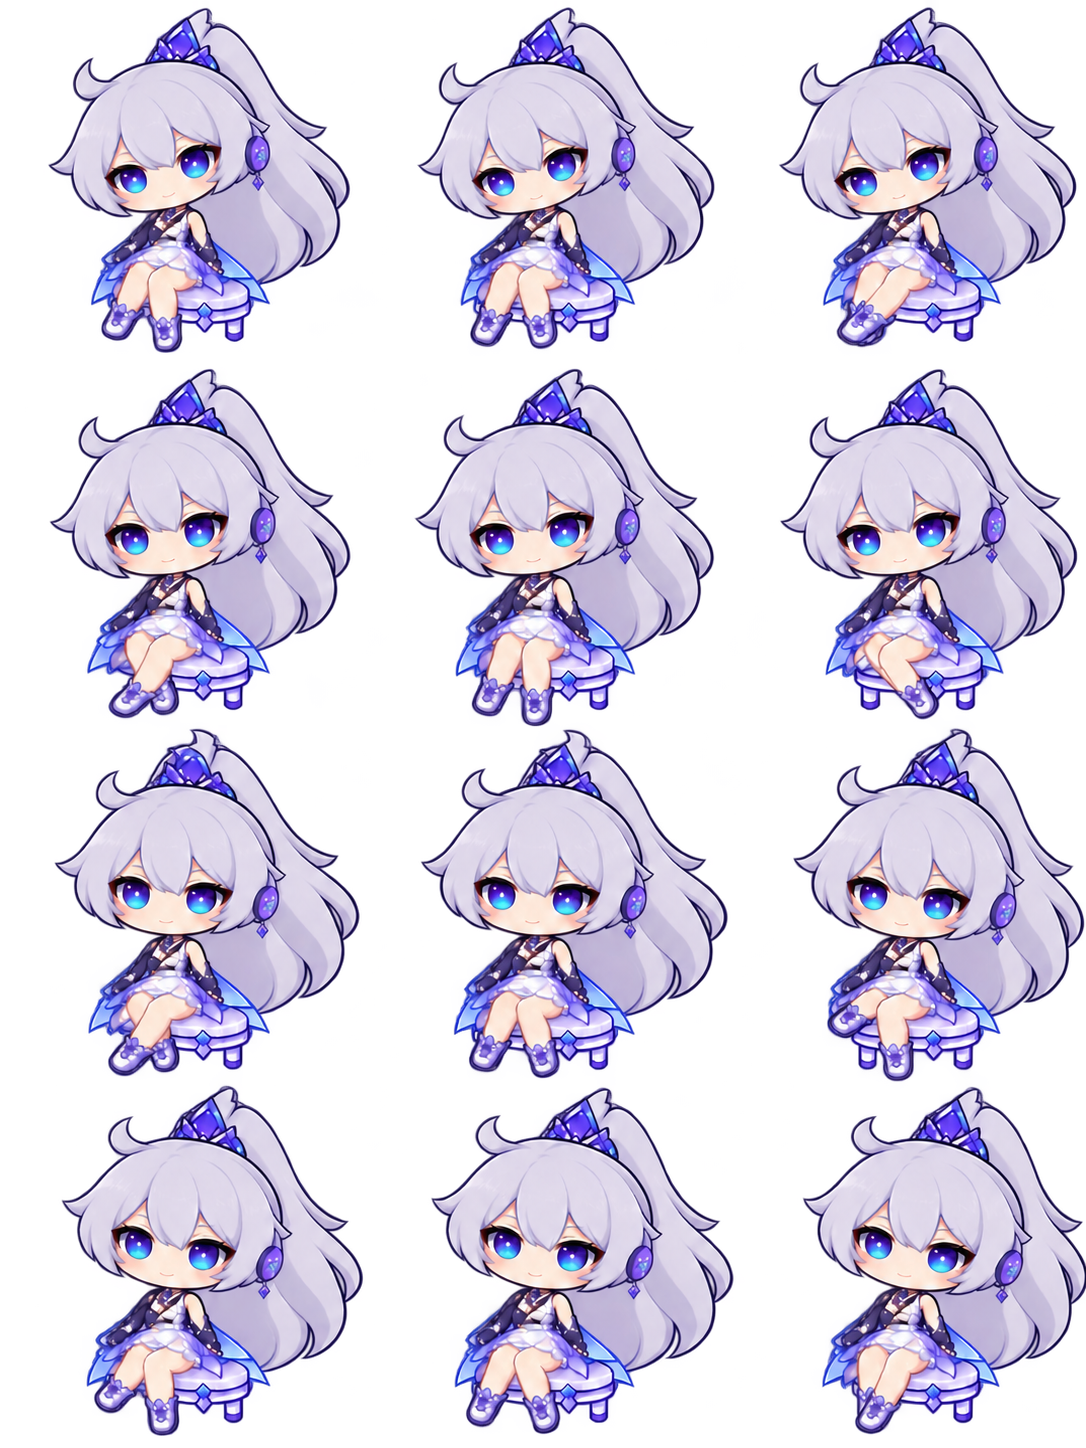
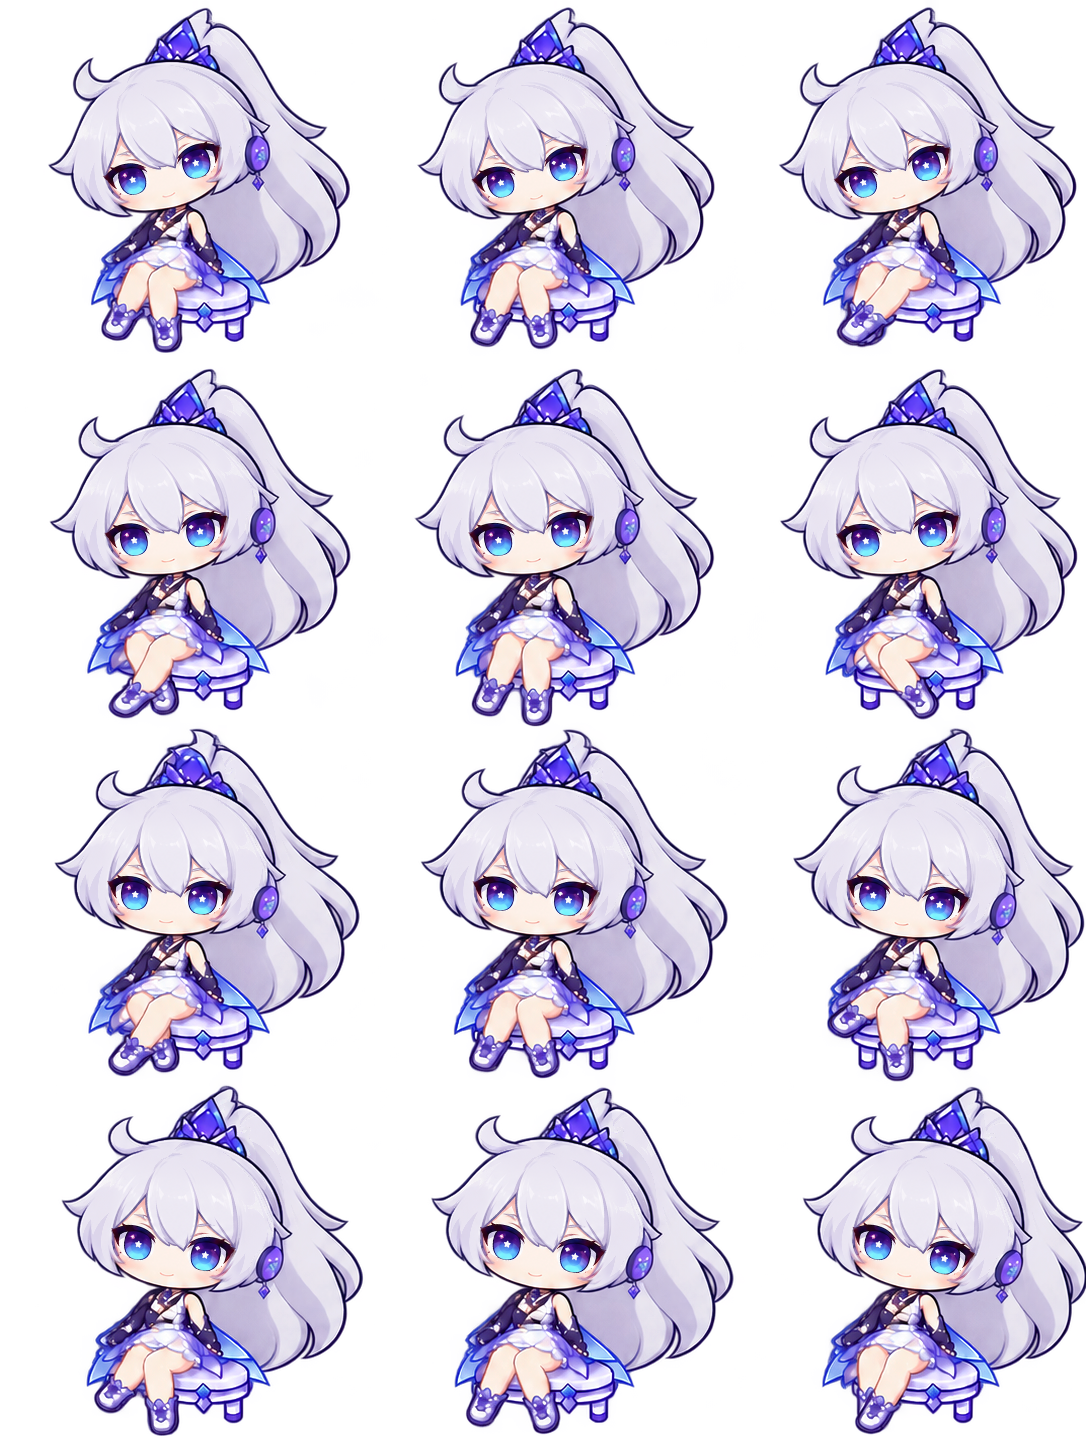
Align seated music and chair transitions with the three original chibi outfits

diff --git a/docs/demo/music-style-0.9.11/index.html b/docs/demo/music-style-0.9.11/index.html
@@ -1,0 +1,26 @@
+<!doctype html><html lang="zh-CN"><meta charset="utf-8"><meta name="viewport" content="width=device-width,initial-scale=1"><title>琪亚娜坐姿与过渡对照</title>
+<style>
+:root{font:16px/1.5 "Microsoft YaHei UI",sans-serif;color:#262338;background:#f6f5fa}main{max-width:1030px;margin:2rem auto;padding:0 1rem}h1{font-size:1.65rem}label{display:inline-grid;gap:.25rem;margin:0 1rem .8rem 0;font-size:.88rem}select,button,input{font:inherit}select,button{padding:.45rem .65rem;border:1px solid #c7c3d5;background:white;border-radius:.45rem;color:#302d40}.row{display:flex;flex-wrap:wrap;gap:.5rem}figure{flex:1;min-width:195px;text-align:center;margin:0;border:1px solid #d8d5e0;border-radius:12px;background:#fff;padding:.7rem}canvas{display:block;max-width:100%;height:auto;margin:auto}figcaption{margin:.5rem;color:inherit}.dark figure{background:#292733;color:white}footer{display:flex;align-items:center;gap:1rem;margin-top:1rem;flex-wrap:wrap}input{width:15rem}</style>
+<main><h1>坐着听歌与过渡动作对照</h1>
+<label>衣装<select id="skin"><option value="kiana-winter-wish-round">冬祈新愿</option><option value="kiana-fiery-wishing-star-round">炽愿吉星</option><option value="time-runner-kiana-round">时砾逐光</option></select></label>
+<label>前期参照<select id="reference"><option>待机</option><option>招手</option><option>等待回应</option><option>伸懒腰</option></select></label>
+<label>对照动作<select id="action"><option>坐着听歌 · 原版</option><option>坐着听歌 · 头部轻晃</option><option>坐着听歌 · 侧向点头</option><option>坐下过渡</option><option>起身过渡</option><option>轻微应援 · 分析</option><option>活力应援 · 分析</option></select></label>
+<label>显示大小<select id="zoom"><option value="192">192 像素</option><option value="280">280 像素</option></select></label>
+<label>底色<select id="bg"><option>浅色</option><option>深色</option></select></label>
+<div class="row"><figure><canvas width="192" height="208"></canvas><figcaption>前期参照</figcaption></figure><figure><canvas width="192" height="208"></canvas><figcaption>修正前</figcaption></figure><figure><canvas width="192" height="208"></canvas><figcaption>当前版本</figcaption></figure></div>
+<footer><button id="play">暂停</button><button id="prev">上一帧</button><button id="next">下一帧</button><label>逐帧查看<input id="step" type="range" min="0" max="11" value="0"></label><output id="status"></output></footer></main>
+<script>
+const el=id=>document.getElementById(id), canvases=[...document.querySelectorAll('canvas')],images={}, rows=[0,1,2,3,3,4,5];
+const quiet=[...Array(12).keys(),10,9,8,7,6,5,4,3,2,1],forward=[0,1,2,3,4,5],reverse=[5,4,3,2,1,0];
+let playing=true,elapsed=0,frame=0,last=performance.now();
+function film(){const a=el('action').selectedIndex;return a<3?quiet:a===4?reverse:forward}
+function times(){const a=el('action').selectedIndex;return a<3?film().map(()=>9600/22):a===5?forward.map(()=>240):a===6?[180,120,180,120,180,120]:forward.map(()=>120)}
+function position(){const t=times(),limit=t.reduce((a,b)=>a+b,0);let remainder=elapsed%limit;for(let i=0;i<t.length;i++){if(remainder<t[i])return i;remainder-=t[i]}return 0}
+function draw(){const id=el('skin').value,a=el('action').selectedIndex;const f=film()[frame];for(let i=0;i<3;i++){const c=canvases[i],ctx=c.getContext('2d');const src=images[id+(i===2?'after':'before')];ctx.clearRect(0,0,192,208);if(src&&src.complete&&src.naturalWidth)ctx.drawImage(src,192*(i?f:el('reference').selectedIndex),208*(i?rows[a]:6),192,208,0,0,192,208);c.style.width=el('zoom').value+'px'}
+el('step').max=film().length-1;el('step').value=frame;el('status').textContent='画稿 '+(f+1)+' / '+(a<3?12:6);el('play').textContent=playing?'暂停':'播放'}
+function changeSkin(){for(const tag of ['before','after']){const id=el('skin').value,key=id+tag;if(!images[key]){const im=new Image();images[key]=im;im.onload=draw;im.onerror=()=>el('status').textContent='图片读取失败';im.src=id+'-'+tag+'.png'}}draw()}
+function jump(i){playing=false;frame=(i+film().length)%film().length;elapsed=times().slice(0,frame).reduce((a,b)=>a+b,0);draw()}
+el('prev').onclick=()=>jump(frame-1);el('next').onclick=()=>jump(frame+1);el('step').oninput=e=>jump(+e.target.value);el('play').onclick=()=>{playing=!playing;last=performance.now();draw()};
+el('skin').onchange=changeSkin;el('action').onchange=()=>{elapsed=0;frame=0;draw()};el('reference').onchange=el('zoom').onchange=draw;el('bg').onchange=()=>document.body.classList.toggle('dark',el('bg').selectedIndex===1);
+function tick(now){if(playing){elapsed+=now-last;let f=position();if(f!==frame){frame=f;draw()}}last=now;requestAnimationFrame(tick)}changeSkin();requestAnimationFrame(tick);
+</script></html>

diff --git a/source/Maintenance.cs b/source/Maintenance.cs
@@ -4,7 +4,7 @@ namespace KianaPet {
  public sealed class PackageManifest {public int schema;public string product,version;public PackageEntry[] files;}
  public sealed class PreparedUpdate {public string Folder,Version,Notes;public PackageManifest Manifest;}
  public static class Maintenance {
-  public const string Version="0.9.10";
+  public const string Version="0.9.11";
   public static bool RuntimeFile(string path){return Regex.IsMatch(path,@"^(assets/|licenses/|docs/demo/|docs/(?:music-animations|toolbar-styles|optional-connections)\.md$|docs/music-generation-\d+\.\d+\.\d+\.json$|KianaHookReceiver\.exe(?:\.config)?$|KianaDesktopPet\.exe(?:\.config)?$|tools/(?:Send-TaskNotice|Invoke-TaskWithNotice)\.ps1$|docs/companion-features\.md$|README\.md$|CHANGELOG\.md$|ASSET_NOTICE\.md$|LICENSE$|update-worker\.ps1$)");}
   public static string SafePath(string root,string relative){if(string.IsNullOrWhiteSpace(relative)||relative.Contains(":")||relative.Contains("\\")||relative.StartsWith("/")||relative.Split('/').Any(p=>p==".."||p=="."||p.Length==0)||relative.Split('/').Any(p=>p.EndsWith(".")||p.EndsWith(" ")))throw new Exception("安装包包含无效路径。");string prefix=Path.GetFullPath(root).TrimEnd(Path.DirectorySeparatorChar)+Path.DirectorySeparatorChar;string target=Path.GetFullPath(Path.Combine(root,relative));if(!target.StartsWith(prefix,StringComparison.OrdinalIgnoreCase))throw new Exception("文件超出安装范围。");return target;}
   public static string Hash(Stream stream){using(var sha=SHA256.Create())return BitConverter.ToString(sha.ComputeHash(stream)).Replace("-","").ToLowerInvariant();}

diff --git a/docs/demo/music-style-0.9.11/画风对照.md b/docs/demo/music-style-0.9.11/画风对照.md
@@ -1,0 +1,13 @@
+# 三套 Q 版的坐姿和应援画风
+
+[打开逐帧对照](index.html) 可选择服装、动作与前期参照。两列音乐动作使用同一帧号。原版坐姿、头部轻晃、侧向点头采用游戏内桌宠默认的 0.25 倍速。坐下的六张画稿倒序播放即为起身。
+
+| 服装 | 坐姿与坐下、起身过渡 | 轻微应援 | 活力应援 |
+| --- | --- | --- | --- |
+| 冬祈新愿 | 原待机的紫蓝虹膜中有小而清楚的白星，刘海末端的蓝紫线条也清楚。旧坐姿的青色眼底更亮，脸颊有软红晕，过渡帧的白裙和冰蓝饰件容易混成亮块。修正版对齐了上眼线和高光位置，提亮银白发束，按服装原稿校正衣片和暗部蓝色。 | 耳罩和短棒附近的电蓝更饱和，深蓝边线比待机显重。 | 举棒后冰蓝棒、晶饰和发梢的亮色集中在脸旁，更抢眼。 |
+| 炽愿吉星原装 | 旧帧马尾偏灰紫，虹膜的小光点容易在桌宠尺寸下消失。过渡里手套、衣摆和黑鞋的高对比让它们显厚。修正版恢复待机的眼睛、刘海内线和银白发色，并以原衣装的红色阴面及肤色重新配色。 | 马尾外线和红色耳罩较醒目，持棒手套比招手时更有体积。 | 双棒展开时，明红外衣、黑手套和亮蓝棒尖形成更强的对比。 |
+| 时砾逐光 | 旧坐姿的马尾中间调偏灰，裙褶的淡紫与蓝色外裙较容易连成一片。过渡帧里最容易看到眼底偏亮、发束内部线条较淡。修正版采用原稿的星状眼光和紫色上眼线，提亮银白中间调，区分裙褶、外裙和深紫衣袖。 | 浅色耳罩和紫蓝短棒靠近眼睛，头部周围大色块比待机更集中。 | 举棒时手套、耳罩及棒尖围住脸，外轮廓和紫蓝对比比早期招手更突出。 |
+
+本版采用内置 imagegen 分别制作三张坐姿配色稿。成品逐帧注册到原动作，眼睛与中央刘海另使用最初批准的高清待机原稿校正。三套共 126 张完整动作帧。源图和桌宠渲染帧的透明度逐像素一致。应援与前期参照的实际渲染像素也已核对。
+
+[同尺寸静态对照](comparison.png) · [脸部放大](close.png) · [应援对照](cheer.png)

diff --git a/README.md b/README.md
@@ -2,6 +2,10 @@
 
 ## 效果演示
 
+### 坐着听歌的画风（0.9.11）
+
+三套 Q 版的坐姿、坐下和起身已按各自的早期待机原稿修正。可以同步播放旧版与新版，或切换到轻微、活力应援查看分析。[逐帧对照](docs/demo/music-style-0.9.11/index.html) · [画风分析](docs/demo/music-style-0.9.11/画风对照.md)
+
 ### 随机换装与反馈（0.9.10）
 
 **设置 → 外观与互动 → 随机换装** 可调整间隔与参与皮肤。默认每约 60 分钟在三套 Q 版之间随机，等安全的动作循环衔接点再换；手动选择后重新计时，也可今天固定一套。启动随机可单独开启。自动更换保留位置、音乐状态与原有联动，说明见 [随机换装规则](docs/companion-features.md#随机换装)。
@@ -54,7 +58,7 @@
 git clone https://github.com/FeiyangHong/Kiana-Desktop-Pet.git
 cd Kiana-Desktop-Pet
 .\build-release.ps1
-.\dist\Kiana-Desktop-Pet-0.9.10-Windows\install.ps1 -InstallRoot 'E:\Kiana-Desktop-Pet\runtime\KianaDesktopPet'
+.\dist\Kiana-Desktop-Pet-0.9.11-Windows\install.ps1 -InstallRoot 'E:\Kiana-Desktop-Pet\runtime\KianaDesktopPet'
 ```
 
 `-InstallRoot` 可改为本机希望保存程序、设置与日志的目录；ChatGPT 平滑联动组件会装在其同级的 `KianaSmoothPet`。首次启动桌宠请使用安装器生成的“琪亚娜桌宠”快捷方式。另一台电脑拉取更新后重新构建、安装即可；本机设置会保留并在更新前备份。

diff --git a/CHANGELOG.md b/CHANGELOG.md
@@ -1,3 +1,8 @@
+# 0.9.11 · 三套 Q 版的坐姿与过渡画风
+
+- 按各自早期原稿校正坐着听歌、坐下和起身的刘海、眼神、肤色与衣装阴影，覆盖三个坐姿选项。
+- 增加真实播放尺寸的逐帧对照与应援画风分析。
+
 # 0.9.10 · 听歌换装顺序与任务姿态保持（2026-11-15）
 
 - 听歌换装提供两种可保存选项：默认保持当前坐姿与音乐相位，仅配随机气泡；也可选择旧皮肤先起身、站稳后换装并展示动作、最后由新皮肤坐下。独立预览可自行切换测试。
